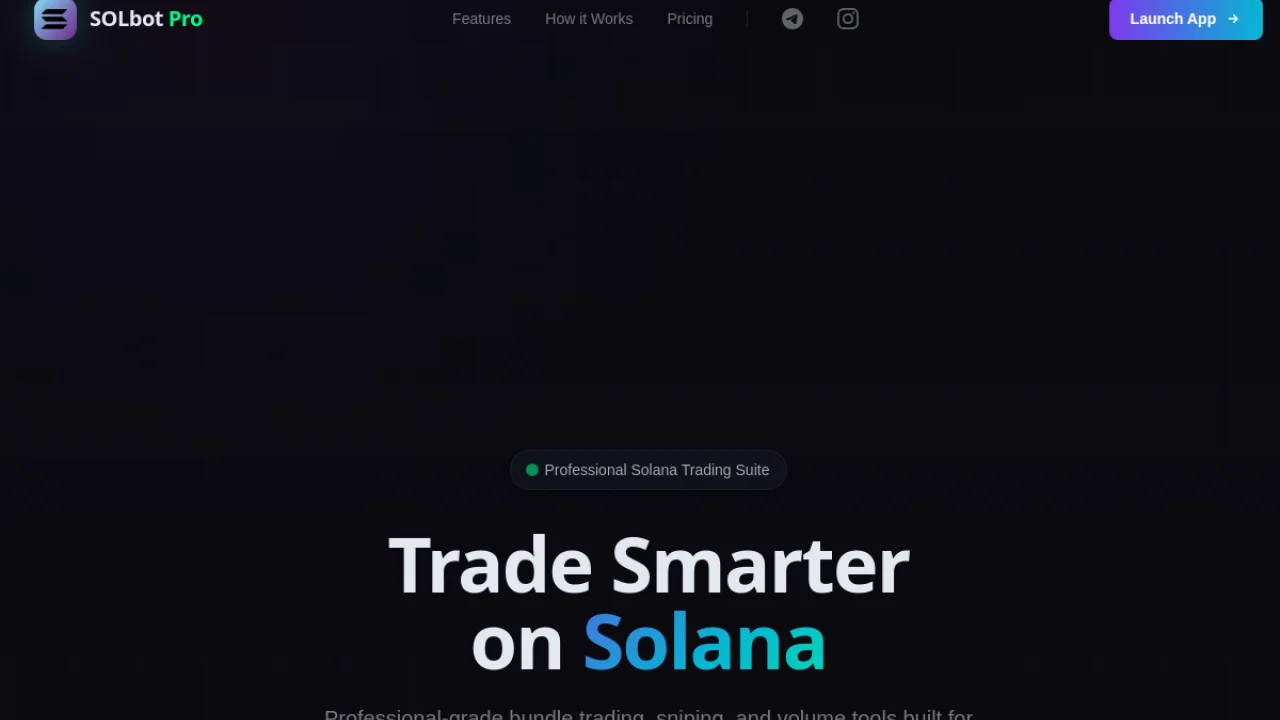
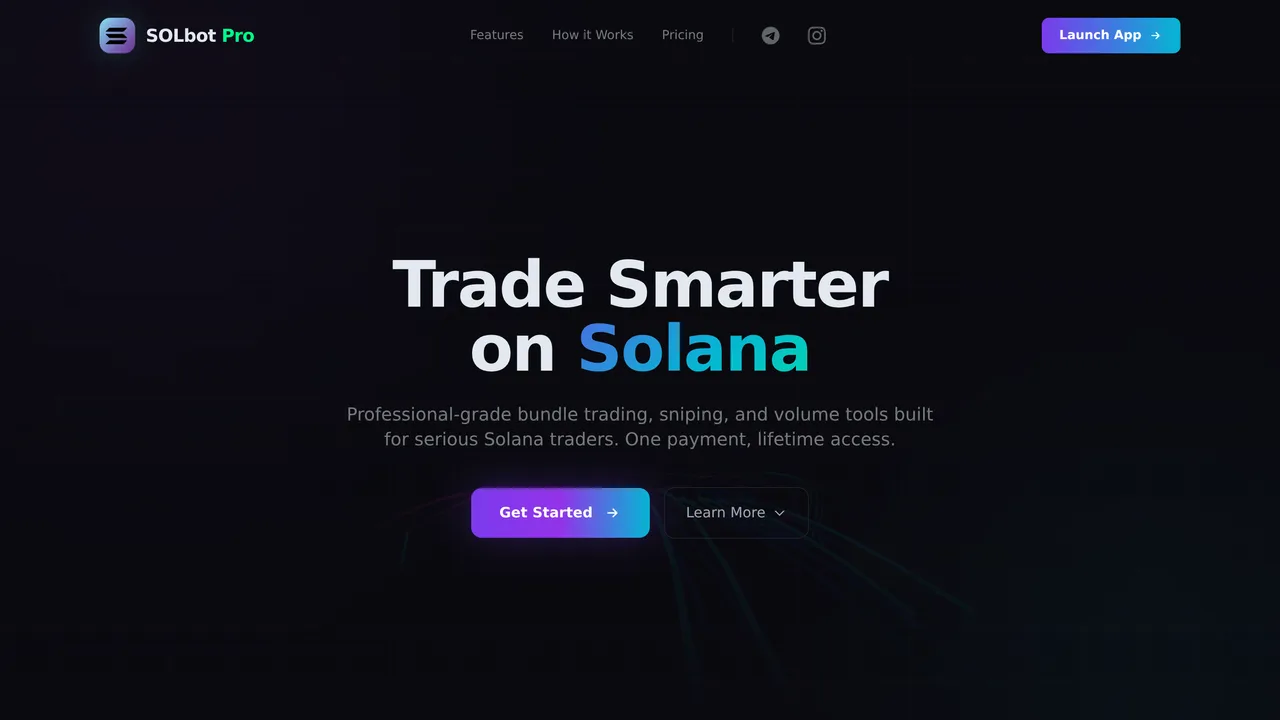
Builder UX: remove toolbar badge, pin live preview; fresh SOLbot screenshot
- Remove the "• BUILDER" badge pill from the /builder editor toolbar (kept the
  Reset / Send buttons). Navbar Builder link and hero button are unchanged.
- Make the editor intuitive: the live preview is now PINNED (sticky) — on
  mobile it stays at the top while you scroll the controls below it, on desktop
  it's the sticky right column. Removed the Edit/Preview tabs; you always see
  your changes as you make them. Side-by-side now kicks in at md (768px).
- Replace the outdated SOLbot card image with a fresh screenshot of
  solbotpro.com (rendered with software WebGL since the site uses Three.js).

diff --git a/src/components/builder/BuilderApp.tsx b/src/components/builder/BuilderApp.tsx
@@ -110,7 +110,6 @@ function ReadOnlyPreview({ spec, dParam }: { spec: DesignSpec; dParam: string })
 function Editor({ decoded }: { decoded: DesignSpec | null }) {
   const t = useT();
   const [spec, dispatch] = useReducer(reducer, decoded, initSpec);
-  const [tab, setTab] = useState<'edit' | 'preview'>('edit');
   const [showSubmit, setShowSubmit] = useState(false);
 
   useEffect(() => {
@@ -133,74 +132,54 @@ function Editor({ decoded }: { decoded: DesignSpec | null }) {
 
   return (
     <div className="mx-auto w-full max-w-7xl px-4 sm:px-6">
-      <div className="mb-5 flex items-center justify-between gap-3">
-        <span className="inline-flex items-center gap-2 rounded-full border border-[var(--color-border)] bg-[var(--color-surface-neutral)] px-3 py-1 text-xs font-medium uppercase tracking-wider text-[var(--color-text-muted)]">
-          <span className="h-1.5 w-1.5 rounded-full bg-[var(--color-accent)]" />
-          {t('builder.badge')}
-        </span>
-        <div className="flex items-center gap-2">
-          <div className="flex rounded-lg border border-[var(--color-border)] bg-[var(--color-bg-elevated)] p-1 lg:hidden">
-            {(['edit', 'preview'] as const).map((m) => (
-              <button
-                key={m}
-                type="button"
-                onClick={() => setTab(m)}
-                className={`rounded-md px-3 py-1 text-xs font-medium transition-colors ${tab === m ? 'bg-[var(--color-accent)] text-white' : 'text-[var(--color-text-muted)]'}`}
-              >
-                {t(`builder.tab.${m}`)}
-              </button>
-            ))}
-          </div>
-          <button
-            type="button"
-            onClick={onReset}
-            className="rounded-lg border border-[var(--color-border)] bg-[var(--color-bg-elevated)] px-3 py-1.5 text-xs font-medium text-[var(--color-text-muted)] transition-colors hover:text-[var(--color-text)]"
-          >
-            {t('builder.action.reset')}
-          </button>
-          <button
-            type="button"
-            onClick={() => setShowSubmit(true)}
-            className="rounded-lg bg-[var(--color-accent-secondary)] px-4 py-1.5 text-xs font-semibold text-[#0A0A0A] shadow-sm transition-colors hover:bg-[var(--color-accent-secondary-hover)]"
-          >
-            {t('builder.action.submit')}
-          </button>
-        </div>
+      <div className="mb-5 flex items-center justify-end gap-2">
+        <button
+          type="button"
+          onClick={onReset}
+          className="rounded-lg border border-[var(--color-border)] bg-[var(--color-bg-elevated)] px-3 py-1.5 text-xs font-medium text-[var(--color-text-muted)] transition-colors hover:text-[var(--color-text)]"
+        >
+          {t('builder.action.reset')}
+        </button>
+        <button
+          type="button"
+          onClick={() => setShowSubmit(true)}
+          className="rounded-lg bg-[var(--color-accent-secondary)] px-4 py-1.5 text-xs font-semibold text-[#0A0A0A] shadow-sm transition-colors hover:bg-[var(--color-accent-secondary-hover)]"
+        >
+          {t('builder.action.submit')}
+        </button>
       </div>
 
-      <div className="grid gap-6 lg:grid-cols-[minmax(330px,380px)_1fr]">
-        <div className={`${tab === 'edit' ? 'block' : 'hidden'} lg:block`}>
-          <div className="lg:max-h-[calc(100vh-9rem)] lg:overflow-y-auto lg:pr-1.5">
-            <EditorPanel
-              spec={spec}
-              onTemplate={(id) => dispatch({ type: 'template', id })}
-              onMeta={(field, value) => dispatch({ type: 'meta', field, value })}
-              onTheme={(value) => dispatch({ type: 'theme', value })}
-              onFont={(value) => dispatch({ type: 'font', value })}
-              onAnim={(value) => dispatch({ type: 'anim', value })}
-              onText={(sid, slot, value) => dispatch({ type: 'text', sid, slot, value })}
-              onImage={(sid, slot, value) => dispatch({ type: 'image', sid, slot, value })}
-              onToggle={(sid) => dispatch({ type: 'toggle', sid })}
-              onIdea={(slot, value) => dispatch({ type: 'text', sid: 'hero', slot, value })}
-            />
-          </div>
+      <div className="flex flex-col gap-6 md:grid md:grid-cols-[minmax(320px,380px)_1fr]">
+        {/* Controls — left on desktop, below the pinned preview on mobile */}
+        <div className="order-2 md:order-1 md:max-h-[calc(100vh-9rem)] md:overflow-y-auto md:pr-1.5">
+          <EditorPanel
+            spec={spec}
+            onTemplate={(id) => dispatch({ type: 'template', id })}
+            onMeta={(field, value) => dispatch({ type: 'meta', field, value })}
+            onTheme={(value) => dispatch({ type: 'theme', value })}
+            onFont={(value) => dispatch({ type: 'font', value })}
+            onAnim={(value) => dispatch({ type: 'anim', value })}
+            onText={(sid, slot, value) => dispatch({ type: 'text', sid, slot, value })}
+            onImage={(sid, slot, value) => dispatch({ type: 'image', sid, slot, value })}
+            onToggle={(sid) => dispatch({ type: 'toggle', sid })}
+            onIdea={(slot, value) => dispatch({ type: 'text', sid: 'hero', slot, value })}
+          />
         </div>
 
-        <div className={`${tab === 'preview' ? 'block' : 'hidden'} lg:block`}>
-          <div className="overflow-hidden rounded-2xl border border-[var(--color-border)] bg-[var(--color-bg-elevated)] shadow-[0_20px_60px_rgba(0,0,0,0.08)] lg:sticky lg:top-24">
-            <div className="flex items-center gap-2 border-b border-[var(--color-border)] bg-[var(--color-surface-neutral)] px-4 py-2.5">
-              <span className="flex gap-1.5">
-                <span className="h-2.5 w-2.5 rounded-full bg-black/15" />
-                <span className="h-2.5 w-2.5 rounded-full bg-black/15" />
-                <span className="h-2.5 w-2.5 rounded-full bg-black/15" />
-              </span>
-              <span className="mx-auto truncate rounded-md bg-[var(--color-bg)] px-3 py-1 text-xs text-[var(--color-text-muted)]">
-                {(spec.meta.siteName || 'your-brand').toLowerCase().replace(/[^a-z0-9]+/g, '') || 'your-brand'}.com
-              </span>
-            </div>
-            <div className="max-h-[calc(100vh-12rem)] overflow-y-auto">
-              <LivePreview spec={spec} />
-            </div>
+        {/* Live preview — pinned (sticky) so your edits are always visible while you scroll the controls */}
+        <div className="order-1 sticky top-20 z-30 overflow-hidden rounded-2xl border border-[var(--color-border)] bg-[var(--color-bg-elevated)] shadow-[0_20px_60px_rgba(0,0,0,0.08)] md:order-2 md:top-24 md:self-start">
+          <div className="flex items-center gap-2 border-b border-[var(--color-border)] bg-[var(--color-surface-neutral)] px-4 py-2.5">
+            <span className="flex gap-1.5">
+              <span className="h-2.5 w-2.5 rounded-full bg-black/15" />
+              <span className="h-2.5 w-2.5 rounded-full bg-black/15" />
+              <span className="h-2.5 w-2.5 rounded-full bg-black/15" />
+            </span>
+            <span className="mx-auto truncate rounded-md bg-[var(--color-bg)] px-3 py-1 text-xs text-[var(--color-text-muted)]">
+              {(spec.meta.siteName || 'your-brand').toLowerCase().replace(/[^a-z0-9]+/g, '') || 'your-brand'}.com
+            </span>
+          </div>
+          <div className="max-h-[44vh] overflow-y-auto md:max-h-[calc(100vh-12rem)]">
+            <LivePreview spec={spec} />
           </div>
         </div>
       </div>
